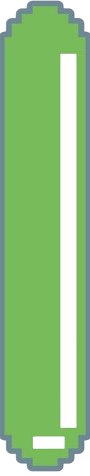
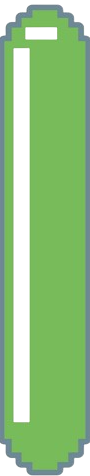
testing tennis ball

diff --git a/static/games/pong2d/Ball.js b/static/games/pong2d/Ball.js
@@ -9,29 +9,19 @@ export default class {
 		this.ballOffSet = (this.ballSize / 2);
         this.x = 0;
 		this.y = 0;
-        // this.x = this.centerX - this.ballOffSet;
-		// this.y = this.centerY - this.ballOffSet;
-        this.deltaX = 1;
-		this.deltaY = 0;
+        this.deltaX = 6;
+		this.deltaY = 6;
         this.ctx = canvas.getContext("2d");
         this.needToCalculate = true;
-    }
-
-    resetPosition(){
-        this.deltaX = 0;
-		this.deltaY = 0;
-		this.x = this.centerX - this.ballOffSet;
-		this.y = this.centerY - this.ballOffSet;
+        this.image =  new Image()
+        this.image.src = this.texture;
     }
 
     drawCircle(x, y){
         this.ctx.beginPath();
         this.ctx.arc(x , y, this.ballSize / 2, 0, 2 * Math.PI, false);
         this.ctx.fillStyle = 'blue'; // You can set your preferred color
-        this.ctx.fill();
-        this.ctx.lineWidth = 2;
-        this.ctx.strokeStyle = '#000';
-        this.ctx.stroke();
+        this.ctx.fill()
         this.ctx.closePath();
     }
 
@@ -40,30 +30,22 @@ export default class {
             this.deltaX *= -1;
         if (this.y < 0 || this.y >= this.canvas.height - this.ballSize)
             this.deltaY *= -1;
-        // if (this.needToCalculate)
-        // {
-            this.x += this.deltaX;
-            this.y += this.deltaY;
-        // }
-        // this.needToCalculate = true;
+
+        this.x += this.deltaX;
+        this.y += this.deltaY;
     }
 
     updatePosition(x, y, deltaX, deltaY){
         this.x = x;
         this.y = y;
-        // console.log(deltaX, deltaY)
         this.deltaX = deltaX;
         this.deltaY = deltaY;
-        // this.needToCalculate = false
     }
 
     draw(){
         if (this.texture == "")
             this.drawCircle(this.x + this.ballOffSet, this.y + this.ballOffSet);
-        else{
-            let image =  new Image()
-            image.src = this.texture;
-            this.ctx.drawImage(image, this.x, this.y , this.ballSize, this.ballSize)
-        }
+        else
+            this.ctx.drawImage(this.image, this.x, this.y , this.ballSize, this.ballSize)
     }
 }

diff --git a/static/games/pong2d/Game.js b/static/games/pong2d/Game.js
@@ -4,47 +4,22 @@ import Paddle from "/games/pong2d/Paddle.js"
 
 export default class {
     constructor(gameCfg){
-        this.ballTesting = new Ball(document.querySelector("#myCanv"),{		canvas: document.querySelector("#myCanv"),
-		width: 800,
-		height: 451,
-		ratio: 1.77,
-		ballConfig: { 
-			size: 20
-		}})
         this.width = gameCfg.width;
         this.height = gameCfg.height;
         this.ratio = gameCfg.ratio;
         this.canvas = gameCfg.canvas;
-        // if (window.innerWidth >= window.innerHeight)
-        // {
-            this.canvas.width =  gameCfg.width;
-            this.canvas.height = gameCfg.height;
-        // } else{
-        //     this.canvas.width =  gameCfg.height * ratio;
-        //     this.canvas.height = gameCfg.height; 
-        // }
+        this.canvas.width =  gameCfg.width;
+        this.canvas.height = gameCfg.height;
         this.paddleLeft = new Paddle(this.canvas, gameCfg.padleLeftConfig)
         this.paddleRight = new Paddle(this.canvas, gameCfg.padleRightConfig)
         this.ball = new Ball(this.canvas, gameCfg.ballConfig)
         this.ctx = gameCfg.canvas.getContext("2d");
-
-    }
-
-    resolveCollision(){
-        // if (this.ball.x < 100){
-        //     if (this.ball.y + this.ball.ballSize > this.paddleLeft.y && this.ball.y < this.paddleLeft.y + this.paddleLeft.height )
-
-        // }
     }
 
     draw(x, y){
         this.ctx.fillStyle = "#000000";
 		this.ctx.fillRect(0, 0, this.canvas.width, this.canvas.height);
-        this.ball.calculatePosition();
-        this.ballTesting.calculatePosition();
-        this.ballTesting.y = 100;
-        this.ballTesting.draw();
-        this.ball.draw(x, y);
+        this.ball.draw();
         this.paddleLeft.draw();
         this.paddleRight.draw();
     }

diff --git a/static/games/pong2d/mainLoop.js b/static/games/pong2d/mainLoop.js
@@ -27,28 +27,22 @@ import Game from "/games/pong2d/Game.js"
 			y: 0,
 		}
 	}
-	window.sync = false
 	let game = new Game(gameConfig)
+
 	socket.addEventListener("message", (message)=>{
 		let coordinates = JSON.parse(message.data).objects;
-		if (coordinates != undefined && coordinates.ball != undefined && coordinates.paddle_left != undefined && coordinates.paddle_right != undefined)
-		{
-			console.log(window.sync)
-			if (window.sync)
-			{
-					game.ball.updatePosition(coordinates.ball.x, coordinates.ball.y, coordinates.ball.vel_x, coordinates.ball.vel_y);
-				
-					sync = false;
-					console.log("ho syncato!")
-				}
-				game.ballTesting.updatePosition(coordinates.ball.x, coordinates.ball.y, coordinates.ball.vel_x, coordinates.ball.vel_y);
+
+		if (coordinates.ball)
+			game.ball.updatePosition(coordinates.ball.x, coordinates.ball.y, coordinates.ball.vel_x, coordinates.ball.vel_y);
+		if (coordinates.paddle_left != undefined)
 			game.paddleLeft.updatePosition(coordinates.paddle_left.x, coordinates.paddle_left.y)
+		if (coordinates.paddle_right != undefined)
 			game.paddleRight.updatePosition(coordinates.paddle_right.x, coordinates.paddle_right.y)
-		}
 	})
 
 	let sendMessage = true;
 	let sendMessageRight = true;
+	
 	document.addEventListener("keydown", (e)=>{
 		if (e.key == "p"){
 			console.log("test")
@@ -96,7 +90,8 @@ import Game from "/games/pong2d/Game.js"
 	{
 		const deltaTime = currentTime - previousTime;
 
-		if (deltaTime > frameInterval) {
+		game.ball.calculatePosition();
+		if (deltaTime >= frameInterval) {
 			previousTime = currentTime - (deltaTime % frameInterval);
 			game.draw();
 		}

diff --git a/static/style/modern/pong2d.css b/static/style/modern/pong2d.css
@@ -18,7 +18,7 @@
     width: 100svw;
     margin: 0;
     display: flex;
-    justify-content: flex-start;
+    justify-content: center;
     align-items: flex-start;
     background-color: black;
 }
